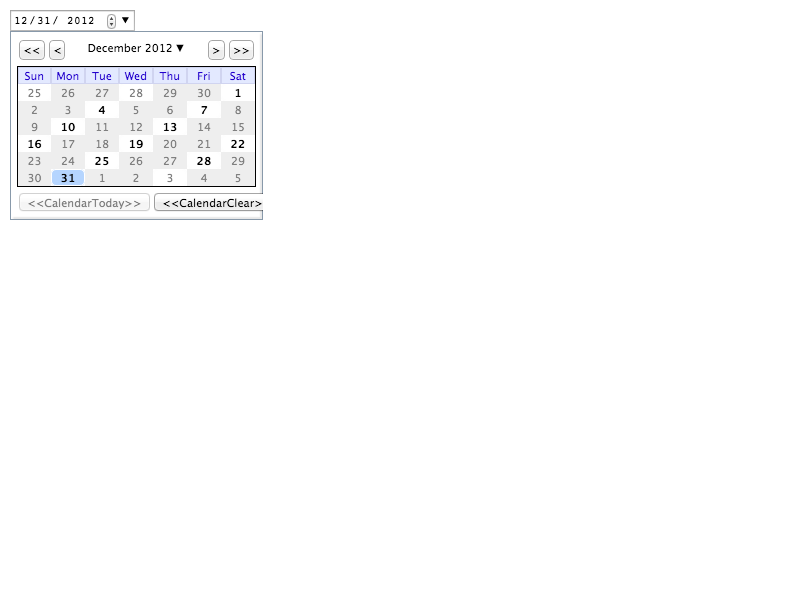
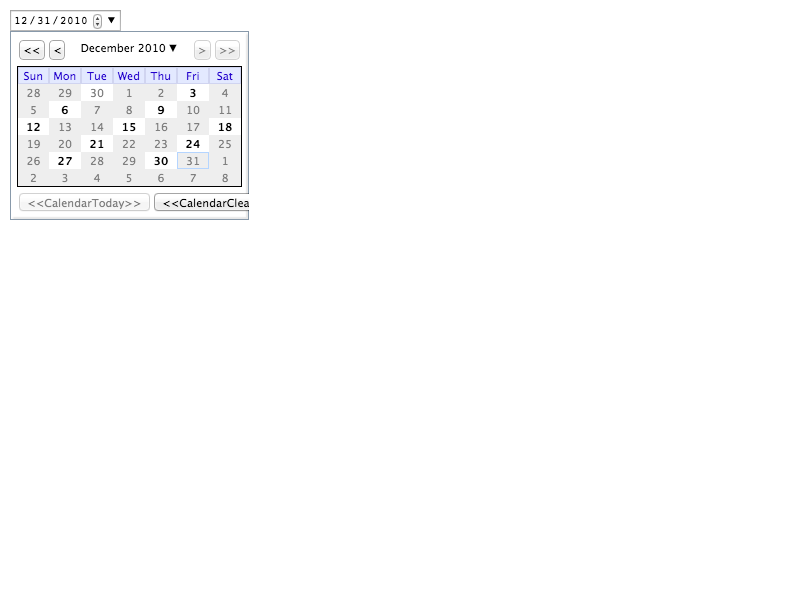
[Chromium] platform/chromium/fast/forms/calendar-picker/calendar-picker-appearance-step.html fails every 3 days https://bugs.webkit.org/show_bug.cgi?id=100480
Reviewed by Pavel Feldman.

Because the date field in the test has step=3, the availability of
[Today] button depends on the current date. We make the test stable by
specifying max attribute.

* platform/chromium-mac/platform/chromium/fast/forms/calendar-picker/calendar-picker-appearance-step-expected.png:
* platform/chromium/fast/forms/calendar-picker/calendar-picker-appearance-step.html:

git-svn-id: https://svn.webkit.org/repository/webkit/trunk@132593 268f45cc-cd09-0410-ab3c-d52691b4dbfc

Changed region(s): [[0.0312, 0.0, 0.3438, 0.33], [0.3125, 0.33, 0.3438, 0.36]]

diff --git a/LayoutTests/platform/chromium/fast/forms/calendar-picker/calendar-picker-appearance-step.html b/LayoutTests/platform/chromium/fast/forms/calendar-picker/calendar-picker-appearance-step.html
@@ -10,7 +10,7 @@ window.enablePixelTesting = true;
 </head>
 <body>
 <!-- Check if step attribute is reflected in the appearance of the calendar picker.  -->
-<input type="date" id="date" value="2012-12-31" step="3">
+<input type="date" id="date" value="2010-12-31" max="2010-12-31" step="3">
 
 <p id="description" style="opacity: 0"></p>
 <div id="console" style="opacity: 0"></div>
